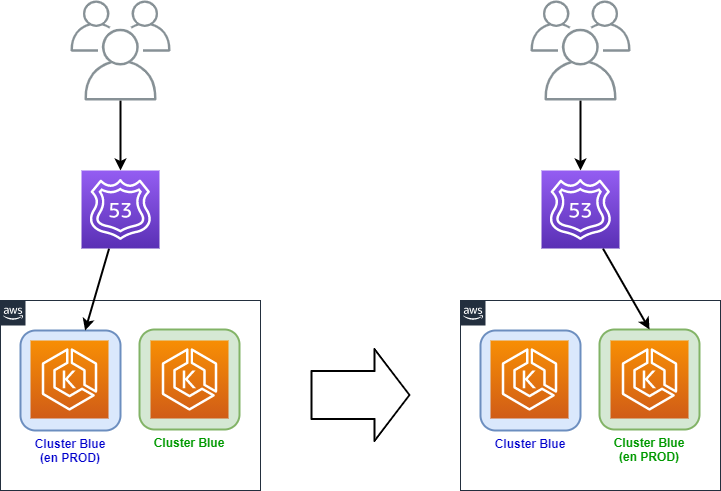
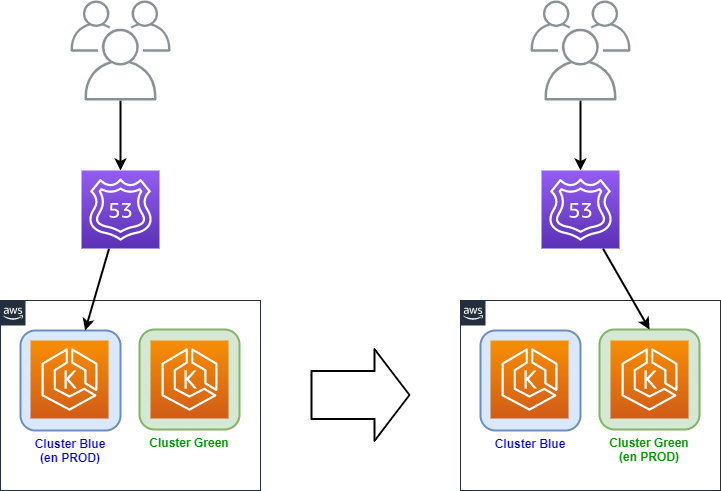
fix blue-green image + typo

diff --git a/content/post/2021/architecture/eks/index.md b/content/post/2021/architecture/eks/index.md
@@ -651,7 +651,7 @@ rules:
 # Le déploiement du cluster EKS en mode blue/green.
 
 ## Contexte eTF1
-Nous voulons être capables d'apporter des changements dans de cluster EKS avec une capacité de rollback rapide en cas d'effet non désirable.  
+Nous voulons être capables d'apporter des changements dans le cluster EKS avec une capacité de rollback rapide en cas d'effet non désirable.  
 Nous avons opté pour un déploiement en mode blue/green.  
 C'est à dire avoir 2 infrastructures parallèles de cluster EKS et basculer le trafic entre le cluster N (blue) et le cluster N+1 (green) lors de nos changements majeurs (changement de CNI, upgrade de version, etc). 
 
